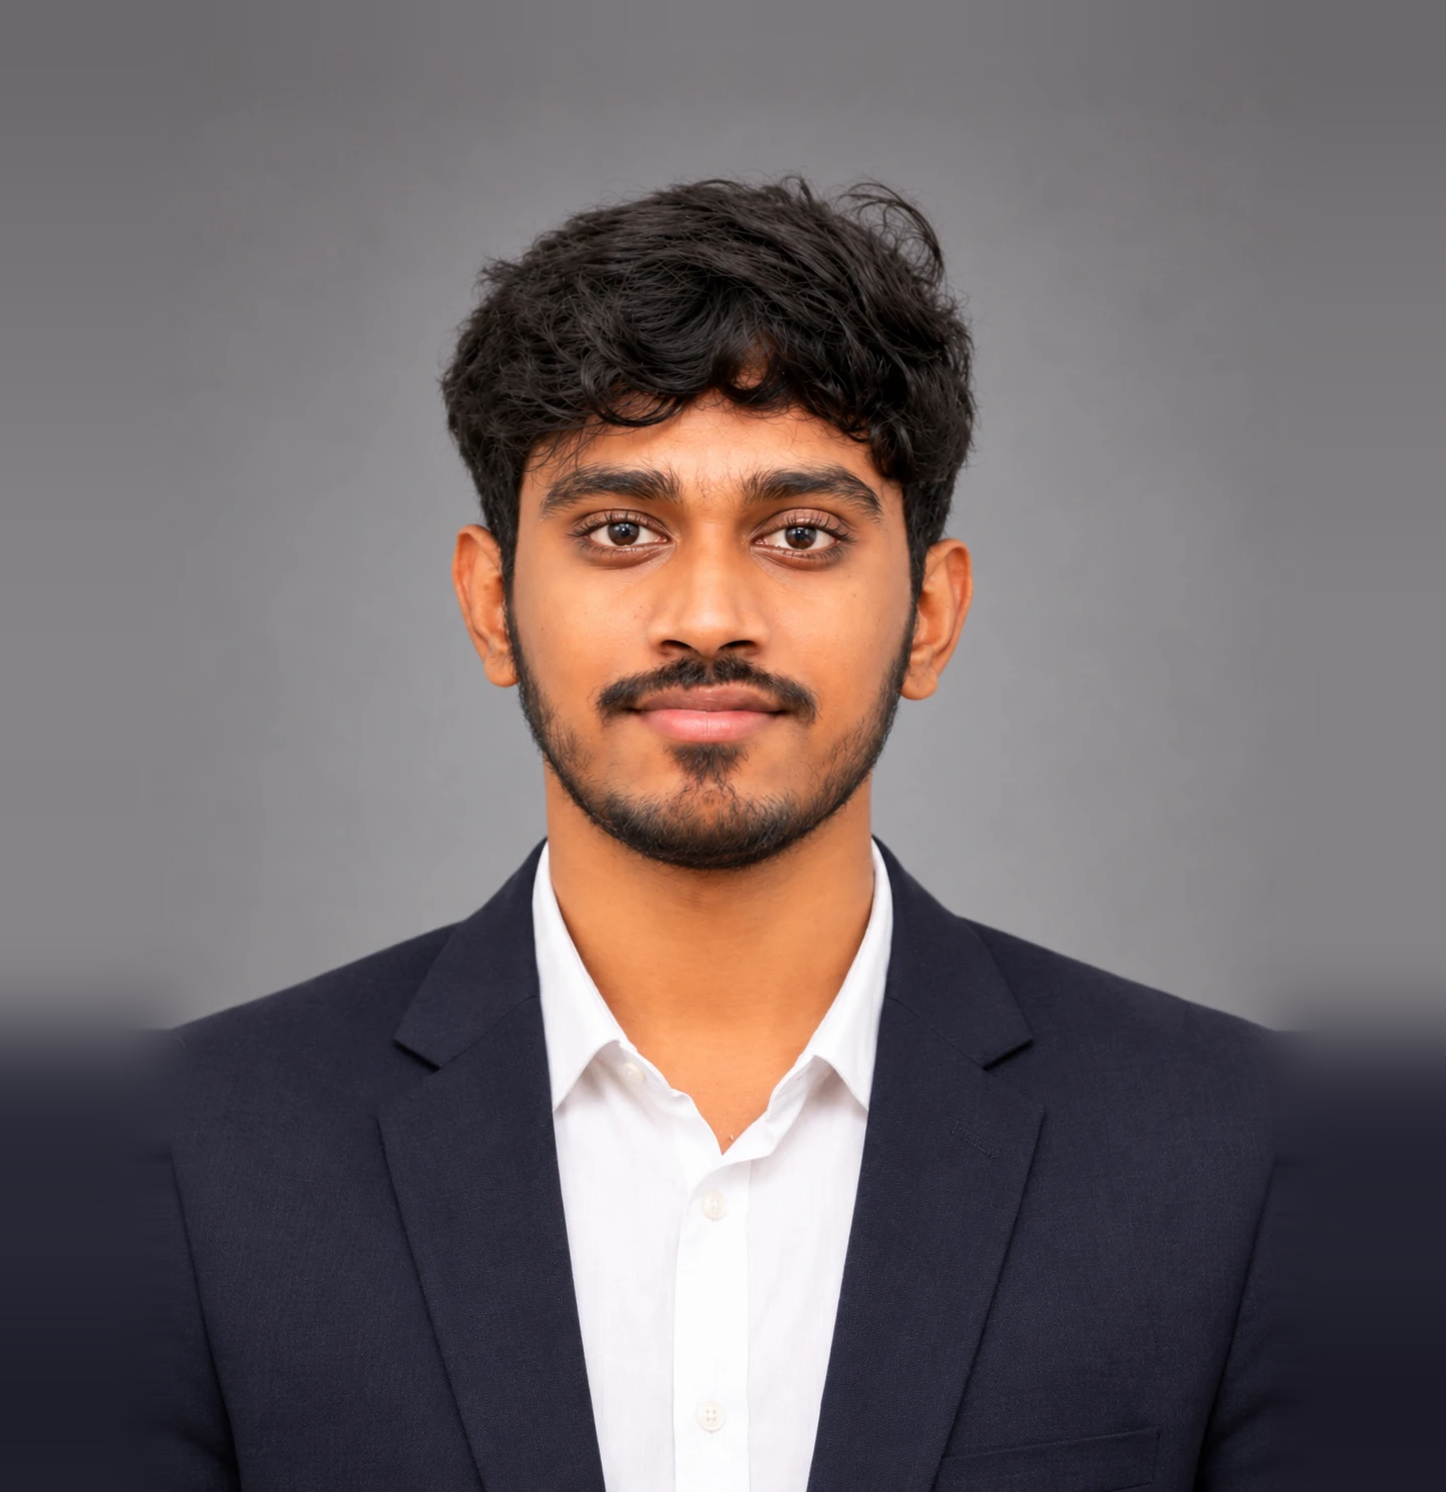
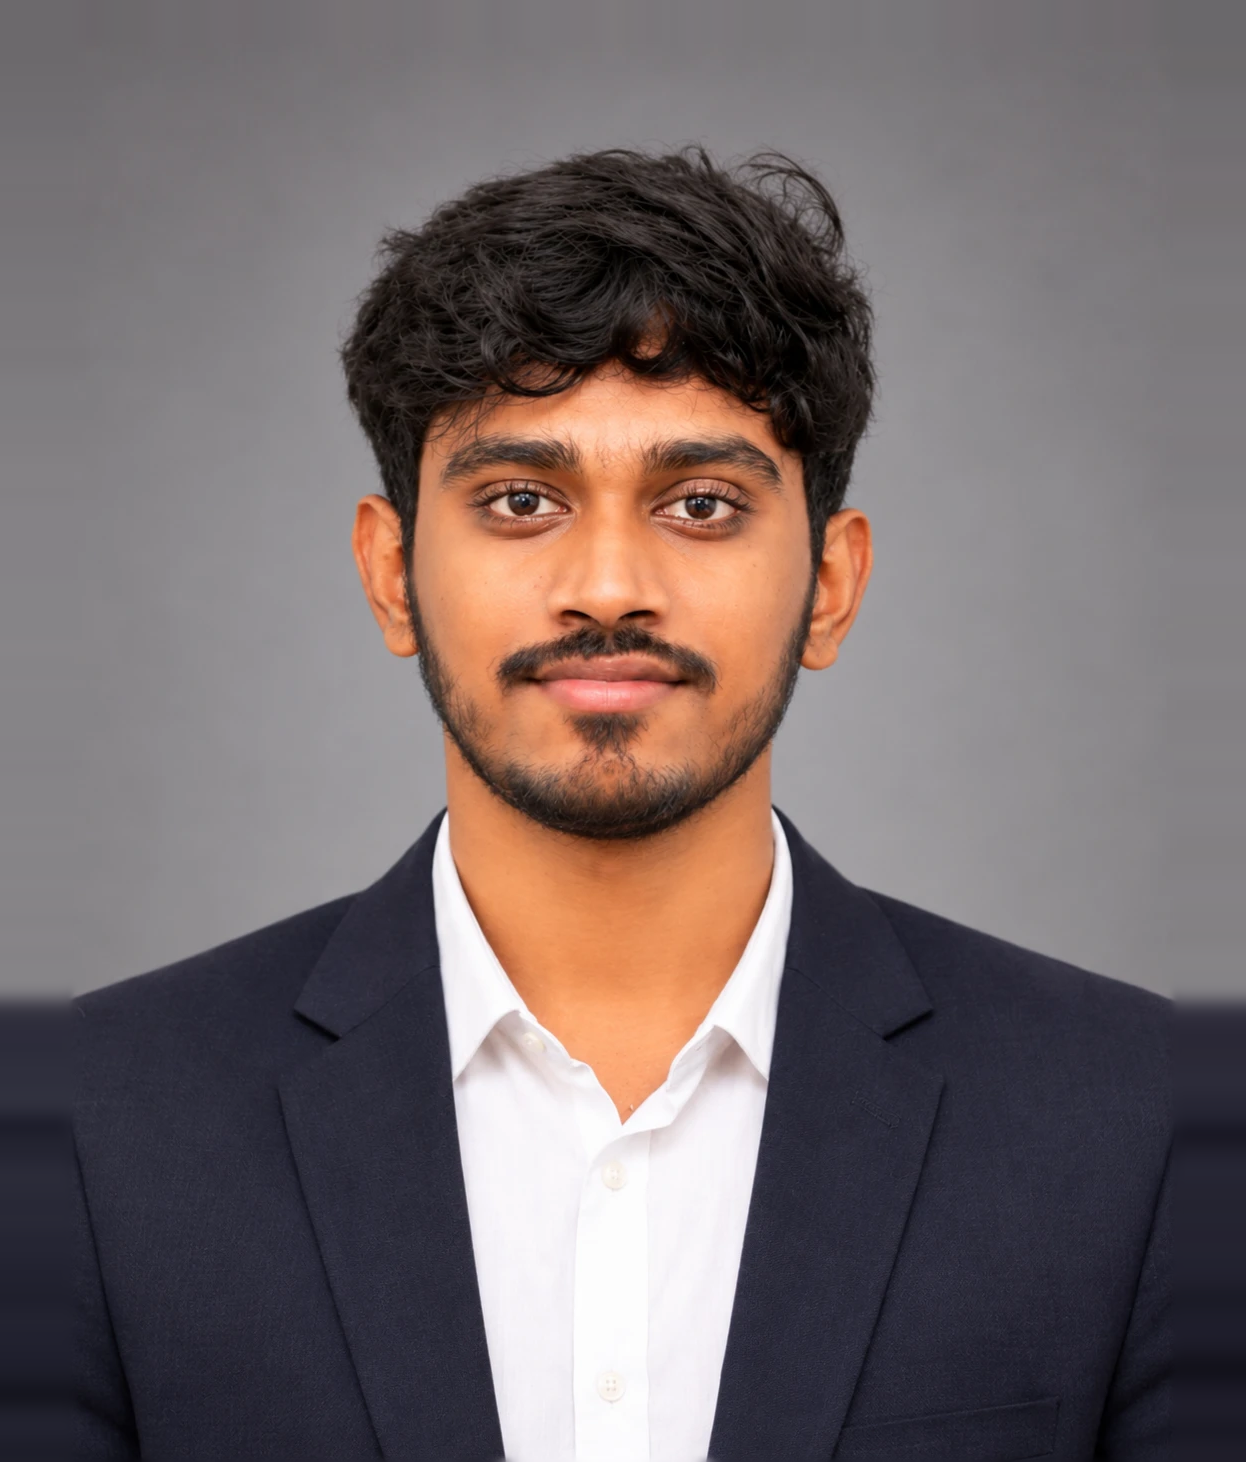
Profile photo: sharper shoulders, slightly closer framing

diff --git a/index.html b/index.html
@@ -618,7 +618,7 @@
       <div class="photo-ring-wrap">
         <div class="ring-glow-soft"></div>
         <div class="ring-glow"></div>
-        <div class="photo-circle"><img src="profile.png?v=20261118b" alt="Rohan Teja Nallapaneni"></div>
+        <div class="photo-circle"><img src="profile.png?v=20261118c" alt="Rohan Teja Nallapaneni"></div>
         <div class="float-el fe1">{ }</div>
         <div class="float-el fe2">☁</div>
         <div class="float-el fe3">⚙</div>
